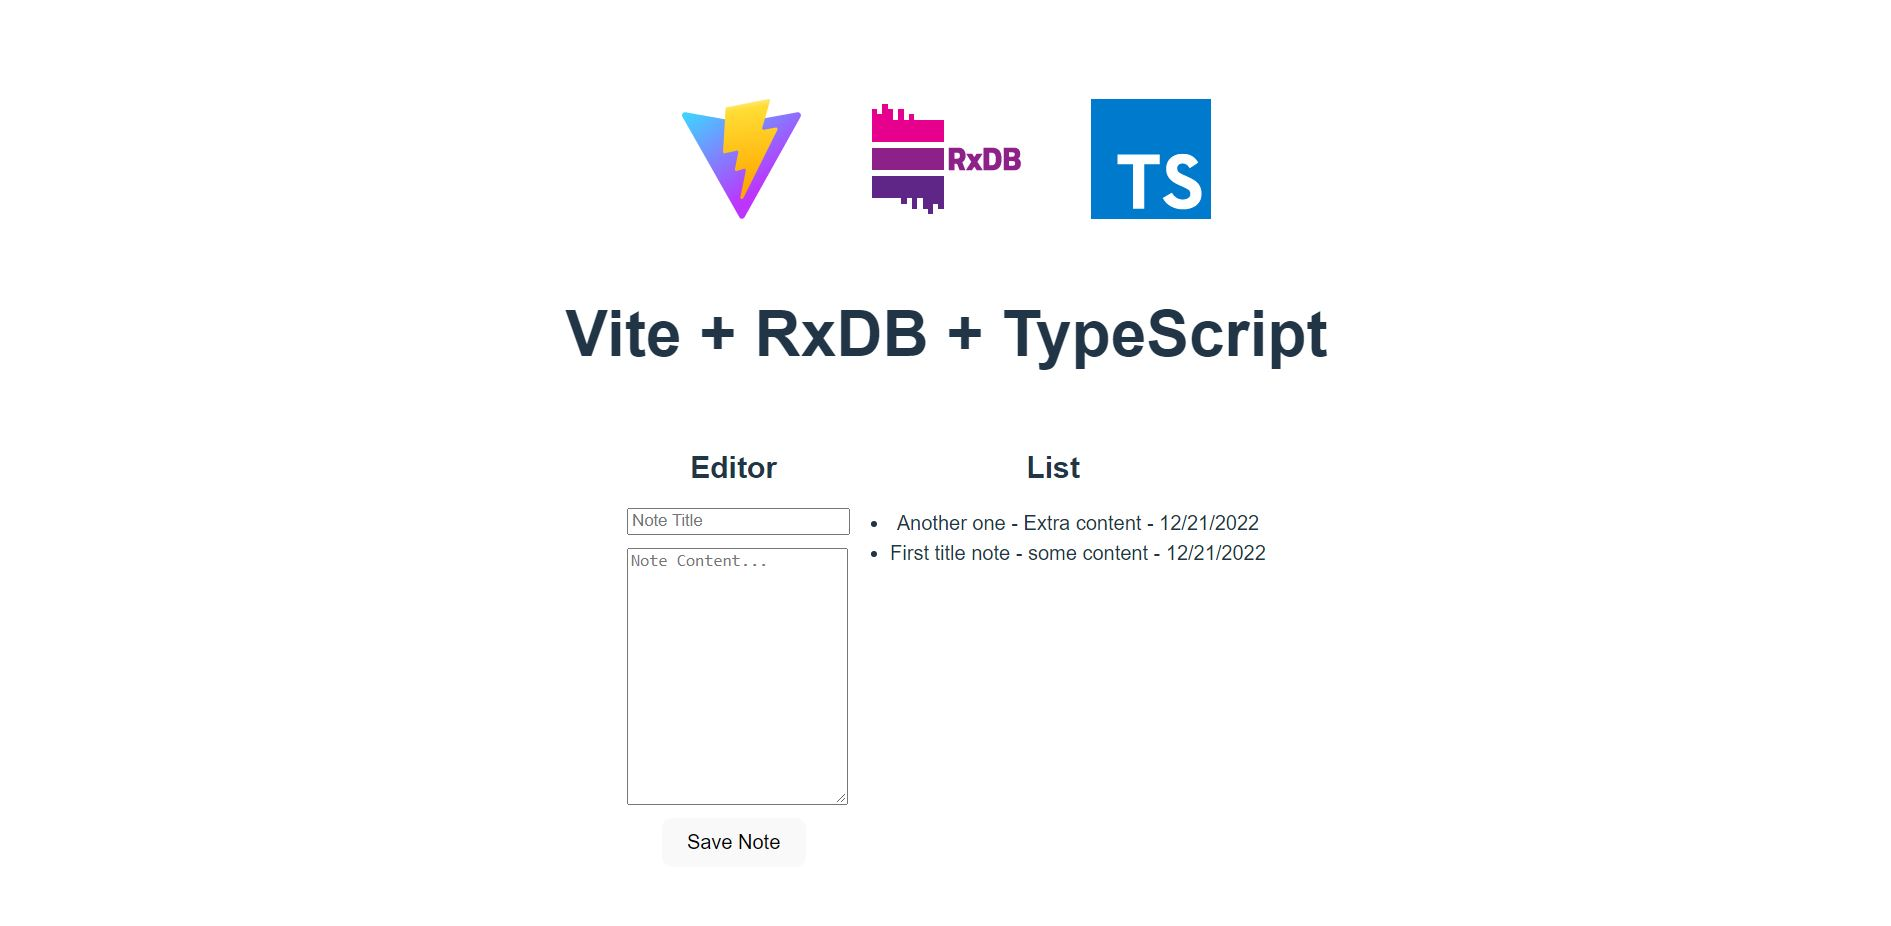
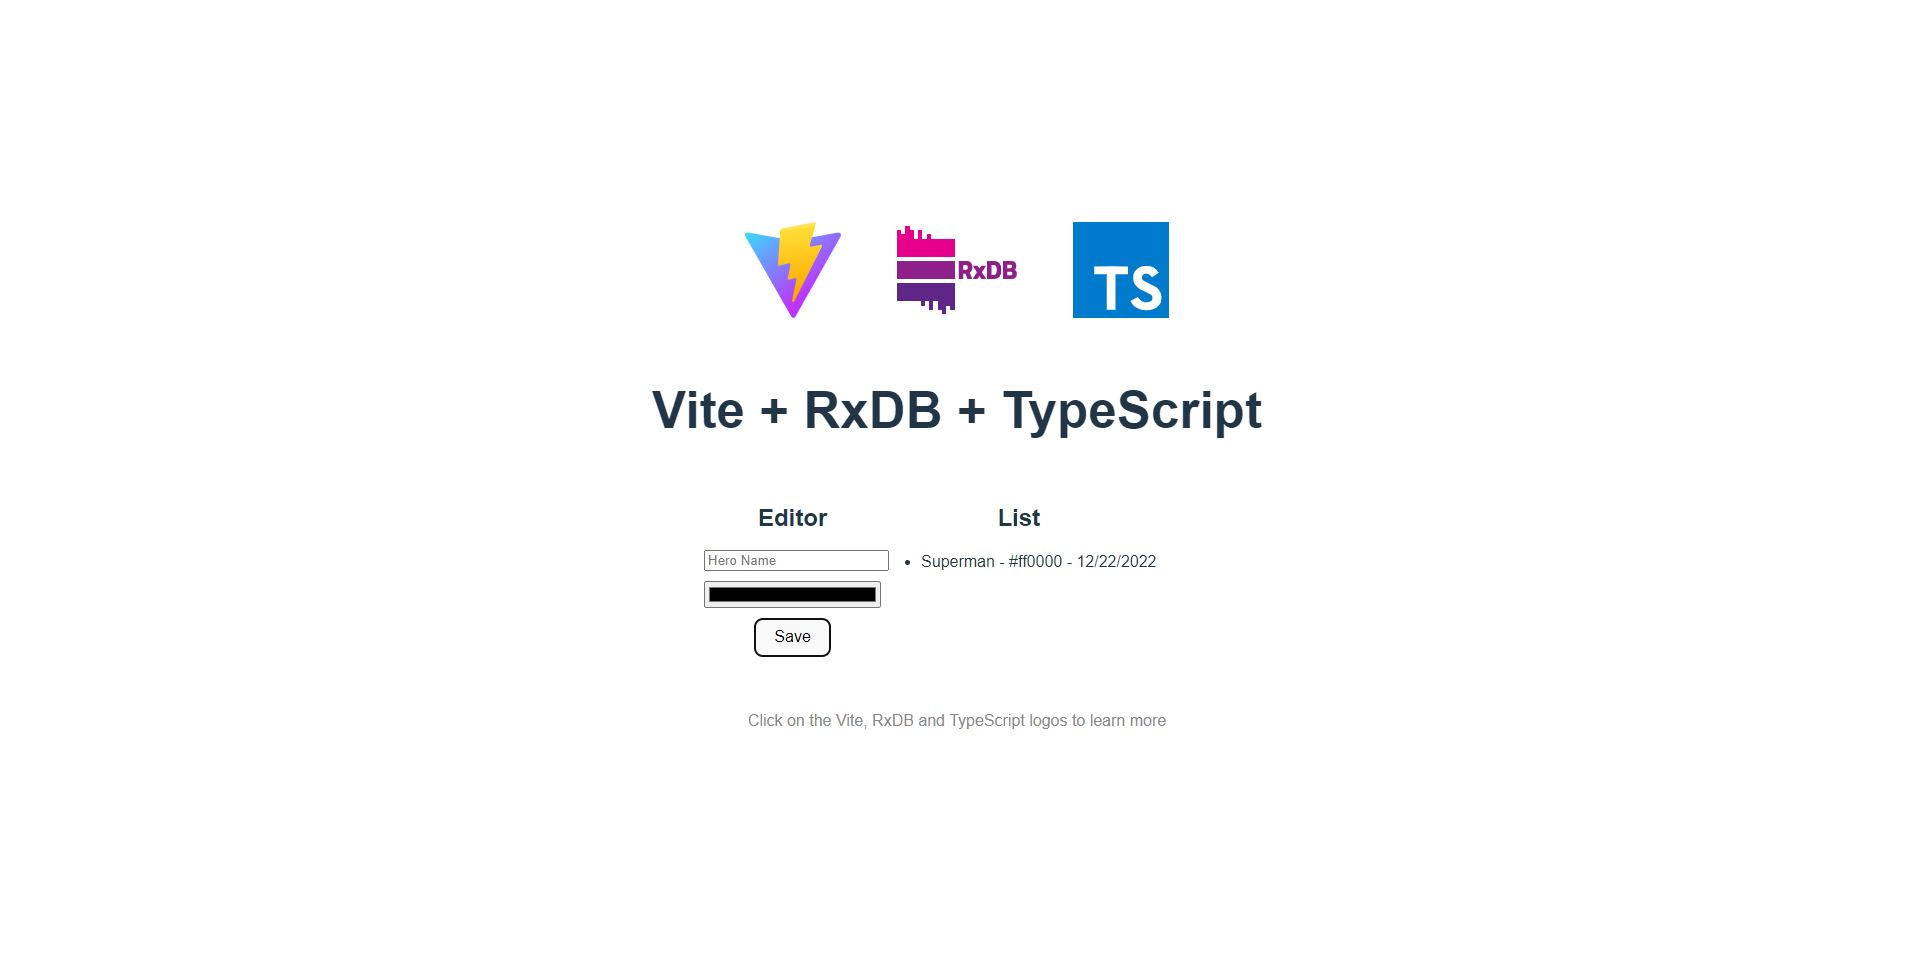
feat(examples): adding e2e tests

diff --git a/examples/vite-vanilla-ts/src/main.ts b/examples/vite-vanilla-ts/src/main.ts
@@ -1,41 +1,48 @@
 /* eslint-disable @typescript-eslint/no-non-null-assertion */
 import './style.css';
 import typescriptLogo from './typescript.svg';
-import rxdbLogo from './rxdb.svg';
-import { setupNoteEditor } from './note-editor';
-import { setupNoteList } from './note-list';
-
+import rxdbLogo from './logo.svg';
+import { setupHeroEditor } from './hero-editor';
+import { setupHeroList } from './hero-list';
 
 document.querySelector<HTMLDivElement>('#app')!.innerHTML = `
 <div>
-  <a href="https://vitejs.dev" target="_blank">
-    <img src="/vite.svg" class="logo" alt="Vite logo" />
-  </a>
-  <a href="https://rxdb.info/" target="_blank">
-    <img src="${rxdbLogo}" class="logo rxdb" alt="RxDB logo" />
-  </a>
-  <a href="https://www.typescriptlang.org/" target="_blank">
-    <img src="${typescriptLogo}" class="logo vanilla" alt="Typescript logo" />
-  </a>
-  <h1>Vite + RxDB + TypeScript</h1>
-  <div class="card">
-    <h2>NoteEditor Vite</h2>
-    <input id="noteName" placeholder="Note Title" />
-    <textarea id="noteBody" placeholder="Note Content..."></textarea>
-    <button id="noteSave">Save Note</button>
-  </div>
-  <p class="read-the-docs">
-    Click on the Vite, RxDB and TypeScript logos to learn more
-  </p>
-</div>
-`;
+     <a href="https://vitejs.dev" target="_blank">
+       <img src="/vite.svg" class="logo" alt="Vite logo" />
+     </a>
+     <a href="https://rxdb.info/" target="_blank">
+       <img src="${rxdbLogo}" class="logo rxdb" alt="RxDB logo" />
+     </a>
+    <a href="https://www.typescriptlang.org/" target="_blank">
+       <img src="${typescriptLogo}" class="logo vanilla" alt="Typescript logo" />
+     </a>
+     <h1>Vite + RxDB + TypeScript</h1>
+     <div class="card">
+      <section>
+      <h2>Editor</h2>
+      <input id="heroName" placeholder="Hero Name" />
+      <input id="heroColor" type="color" ></input>
+      <button id="btnSave">Save</button>
+      </section>
+      <section>
+      <h2>List</h2>
+      <ul id="heroList"></ul>
+      </section>
+       
+     </div>
+     <p class="read-the-docs">
+       Click on the Vite, RxDB and TypeScript logos to learn more
+     </p>
+  
+</div>`;
 
-setupNoteEditor({
-  noteNameElement: document.querySelector<HTMLInputElement>('#noteName')!,
-  noteBodyElement: document.querySelector<HTMLInputElement>('#noteBody')!,
-  saveElement: document.querySelector<HTMLButtonElement>('#noteSave')! ,
+setupHeroEditor({
+  heroNameElement: document.querySelector<HTMLInputElement>('#heroName')!,
+  heroColorElement: document.querySelector<HTMLInputElement>('#heroColor')!,
+  saveElement: document.querySelector<HTMLButtonElement>('#btnSave')! ,
 });
 
-await setupNoteList({
-  noteListElement: document.querySelector<HTMLUListElement>('#noteList')!
+await setupHeroList({
+  heroListElement: document.querySelector<HTMLUListElement>('#heroList')!
 });
+

diff --git a/examples/vite-vanilla-ts/src/schema.ts b/examples/vite-vanilla-ts/src/schema.ts
@@ -3,47 +3,48 @@ import {
     type ExtractDocumentTypeFromTypedRxJsonSchema,
     type RxCollection,
     type RxDatabase,
-    type RxJsonSchema,
+    type RxJsonSchema
 } from 'rxdb';
 
-export const NotesSchemaLiteral = {
-    title: 'note',
-    description: 'an individual note',
-    version: 0,
-    type: 'object',
-    indexes: ['createdAt', 'updatedAt'],
-    primaryKey: 'name',
-    properties: {
-        name: {
-            type: 'string',
-        },
-        body: {
-            type: 'string',
-        },
-        createdAt: {
-            type: 'number',
-        },
-        updatedAt: {
-            type: 'number',
-        },
+export const HeroSchemaLiteral = {
+   title: 'hero',
+  description: 'an individual hero',
+  version: 0,
+  type: 'object',
+  indexes: [
+    'createdAt',
+    'updatedAt'
+  ],
+  primaryKey: 'name',
+  properties: {
+    name: {
+      type: 'string',
     },
-    required: ['name', 'body', 'createdAt', 'updatedAt'],
+    color: {
+      type: 'string'
+    },
+    createdAt: {
+      type: 'number',
+    },
+    updatedAt: {
+      type: 'number',
+    },
+  },
+  required: ['name', 'color','createdAt','updatedAt'],
 } as const;
 
-export const SchemaTyped = toTypedRxJsonSchema(NotesSchemaLiteral);
+export const SchemaTyped = toTypedRxJsonSchema(HeroSchemaLiteral);
 
 // aggregate the document type from the schema
-export type NoteDocType = ExtractDocumentTypeFromTypedRxJsonSchema<
-    typeof SchemaTyped
->;
+export type HeroDocType = ExtractDocumentTypeFromTypedRxJsonSchema<typeof SchemaTyped>;
 
 // create the typed RxJsonSchema from the literal typed object.
-export const NoteSchema: RxJsonSchema<NoteDocType> = SchemaTyped;
+export const HeroSchema: RxJsonSchema<HeroDocType> = SchemaTyped;
 
-type NoteCollection = RxCollection<NoteDocType>;
+type HeroesCollection = RxCollection<HeroDocType>;
 
 export type MyDatabaseCollections = {
-    notes: NoteCollection;
+heroes: HeroesCollection;
 };
 
 export type MyDatabase = RxDatabase<MyDatabaseCollections>;

diff --git a/examples/vite-vanilla-ts/test/e2e.test.js b/examples/vite-vanilla-ts/test/e2e.test.js
@@ -1,0 +1,28 @@
+import { Selector } from 'testcafe';
+import AsyncTestUtil from 'async-test-util';
+
+fixture`Vite + RxDB + Typescript Heroes App Demo`
+    .page('http://localhost:4173/');
+
+test('insert a note', async t => {
+    // input name
+    const heroNameInput = Selector('#heroName');
+    await t
+        .expect(heroNameInput.value).eql('', 'input is empty')
+        .typeText(heroNameInput, 'Superman')
+        .expect(heroNameInput.value).contains('Superman', 'input contains name');
+
+    // input hero color
+    const heroColorInput = Selector('#heroColor');
+    await t
+        .expect(heroColorInput.value).eql('#000000', 'input is empty')
+        .typeText(heroColorInput, '#e6008d')
+        .expect(heroColorInput.value).contains('#e6008d', 'input contains content');
+
+    // submit
+    await t.click('#btnSave');
+    await AsyncTestUtil.wait(200);
+
+    const noteListElement = Selector('#heroList li');
+    await t.expect(noteListElement.textContent).contains('Superman', 'list-item contains name match');
+});

diff --git a/examples/vite-vanilla-ts/src/hero-editor.ts b/examples/vite-vanilla-ts/src/hero-editor.ts
@@ -1,0 +1,42 @@
+import { db } from './db';
+
+export function setupHeroEditor({
+  heroNameElement,
+  heroColorElement,
+  saveElement,
+}: {
+  heroNameElement: HTMLInputElement;
+  heroColorElement: HTMLInputElement;
+  saveElement: HTMLButtonElement;
+}) {
+  let heroName: string;
+  let heroColor: string;
+
+  const resetForm = () => {
+    heroNameElement.value = '';
+    heroColorElement.value = '';
+  };
+
+  const saveHeroe = async (name: string, color: string) => {
+    const db$ = await db();
+    await db$.heroes
+      .insert({
+        name,
+        color,
+        createdAt: new Date().getTime(),
+        updatedAt: new Date().getTime(),
+      })
+      .then(resetForm);
+  };
+
+  saveElement.addEventListener('click', () => {
+    heroName = heroNameElement.value;
+    heroColor = heroColorElement.value;
+    if (heroName.length > 0 && heroColor.length > 0) {
+      saveHeroe(heroName, heroColor);
+    } else {
+      alert('Please fill all the fields');
+    }
+  });
+
+}

diff --git a/examples/vite-vanilla-ts/src/db.ts b/examples/vite-vanilla-ts/src/db.ts
@@ -3,7 +3,7 @@ import { getRxStorageDexie } from 'rxdb/plugins/dexie';
 import { wrappedKeyCompressionStorage } from 'rxdb/plugins/key-compression';
 import { RxDBQueryBuilderPlugin } from 'rxdb/plugins/query-builder';
 import { wrappedKeyEncryptionStorage } from 'rxdb/plugins/encryption';
-import { NoteSchema, MyDatabaseCollections } from './schema';
+import { HeroSchema, MyDatabaseCollections } from './schema';
 
 addRxPlugin(RxDBQueryBuilderPlugin);
 
@@ -19,7 +19,7 @@ const _create = async () => {
     multiInstance: true,
     ignoreDuplicate: true,
   });
-  await database.addCollections({ notes: { schema: NoteSchema } });
+  await database.addCollections({ heroes: { schema: HeroSchema } });
   return database;
 };
 

diff --git a/examples/vite-vanilla-ts/src/hero-list.ts b/examples/vite-vanilla-ts/src/hero-list.ts
@@ -1,0 +1,23 @@
+import { db } from './db';
+
+export async function setupHeroList({
+  heroListElement,
+}: {
+  heroListElement: HTMLUListElement;
+}) {
+  const getHeroesList = async () => {
+    const db$ = await db();
+    db$.heroes
+      .find()
+      .sort({ updatedAt: 'desc' })
+      .$.subscribe((heroes) => {
+        let result = '';
+        heroListElement.innerHTML = '';
+        heroes.forEach((hero) => {
+          result += `<li> ${hero.name} - ${hero.color} - ${new Date(hero.createdAt).toLocaleDateString('en-US')}</li>`;
+        });
+        heroListElement.innerHTML = result;
+      });
+  };
+  await getHeroesList();
+}
